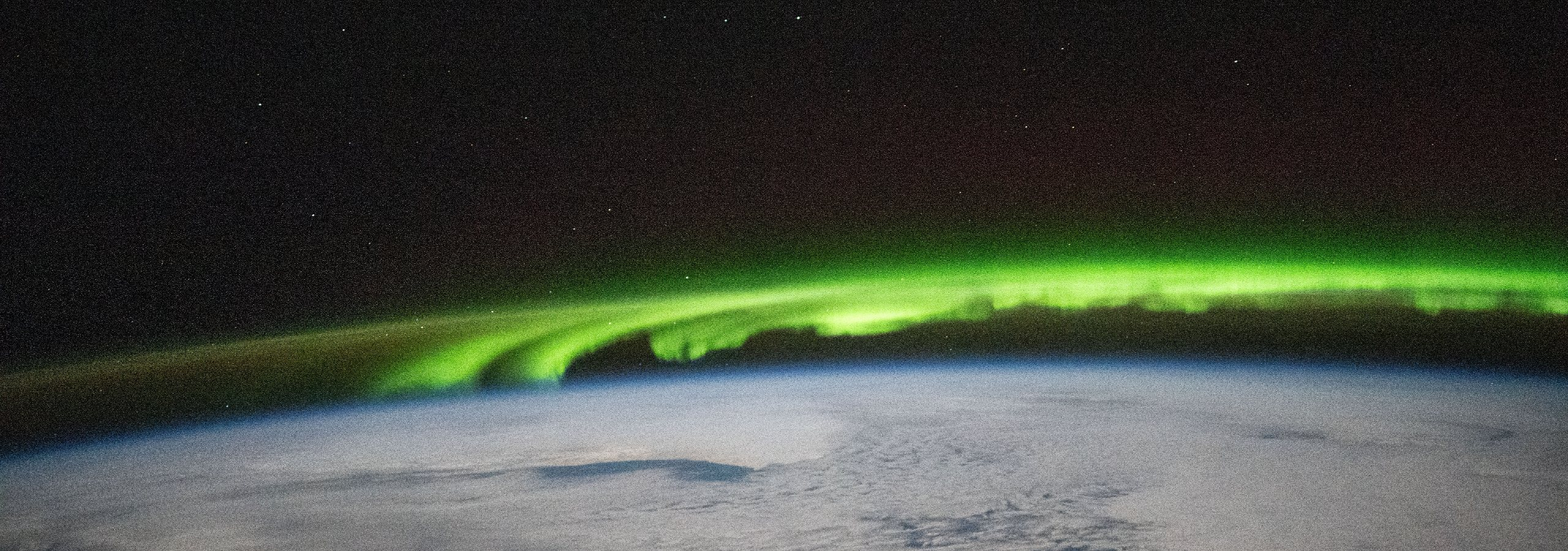
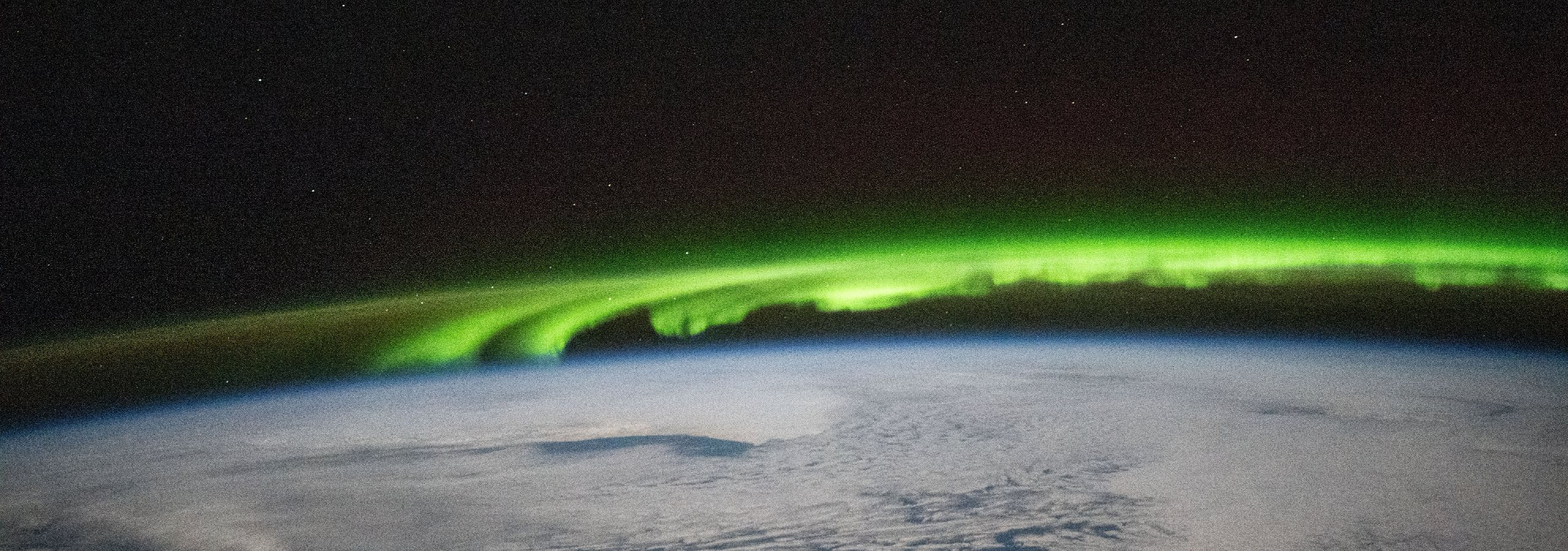
Recadre les aurores sur le rideau lumineux et laisse la photo respirer
Le portail n'a plus de planche au trait par-dessus la photographie ; les
fonds sont recadrés sur la partie lumineuse de l'aurore, et les voiles des
thèmes clair et sombre sont allégés pour que la photo reste visible sans
jamais passer sous un texte.

Claude-Session: https://claude.ai/code/session_01YCkoCtbapSrxguP4RnxtDj

diff --git a/site/eleve.css b/site/eleve.css
@@ -57,12 +57,12 @@ body.corps-eleve {
   /* Une vraie photographie d'aurore boréale (NASA, domaine public) sous un
      voile clair : la couleur affleure, le texte reste sur des cartes opaques. */
   background:
-    linear-gradient(180deg, rgba(246, 250, 251, .62) 0%, rgba(246, 250, 251, .80) 45%, rgba(246, 250, 251, .96) 100%),
+    linear-gradient(180deg, rgba(246, 250, 251, .30) 0%, rgba(246, 250, 251, .62) 45%, rgba(246, 250, 251, .92) 100%),
     url('fond/aurore-jour.jpg') center top / cover no-repeat,
     var(--e-fond);
   background-attachment: fixed;
 }
-@media (max-aspect-ratio: 3/4) { body.corps-eleve { background-image: linear-gradient(180deg, rgba(246, 250, 251, .62) 0%, rgba(246, 250, 251, .80) 45%, rgba(246, 250, 251, .96) 100%), url('fond/aurore-mobile.jpg'); background-size: auto, cover; } }
+@media (max-aspect-ratio: 3/4) { body.corps-eleve { background-image: linear-gradient(180deg, rgba(246, 250, 251, .30) 0%, rgba(246, 250, 251, .62) 45%, rgba(246, 250, 251, .92) 100%), url('fond/aurore-mobile.jpg'); background-size: auto, cover; } }
 
 [data-theme="dark"] body.corps-eleve {
   --e-encre: #F1ECF5;
@@ -75,11 +75,11 @@ body.corps-eleve {
   --e-ombre: 0 1px 2px rgba(0,0,0,.4), 0 10px 30px rgba(0,0,0,.35);
   --e-ombre-forte: 0 2px 8px rgba(0,0,0,.5), 0 22px 50px rgba(0,0,0,.5);
   background:
-    linear-gradient(180deg, rgba(11, 16, 32, .28) 0%, rgba(11, 16, 32, .74) 55%, rgba(11, 16, 32, .9) 100%),
+    linear-gradient(180deg, rgba(11, 16, 32, .10) 0%, rgba(11, 16, 32, .48) 55%, rgba(11, 16, 32, .84) 100%),
     url('fond/aurore-nuit.jpg') center top / cover no-repeat fixed,
     var(--e-fond);
 }
-@media (max-aspect-ratio: 3/4) { [data-theme="dark"] body.corps-eleve { background-image: linear-gradient(180deg, rgba(11, 16, 32, .28) 0%, rgba(11, 16, 32, .74) 55%, rgba(11, 16, 32, .9) 100%), url('fond/aurore-mobile.jpg'); } }
+@media (max-aspect-ratio: 3/4) { [data-theme="dark"] body.corps-eleve { background-image: linear-gradient(180deg, rgba(11, 16, 32, .10) 0%, rgba(11, 16, 32, .48) 55%, rgba(11, 16, 32, .84) 100%), url('fond/aurore-mobile.jpg'); } }
 
 .eleve { display: flex; flex-direction: column; min-height: 100vh; }
 .eleve h1, .eleve h2, .eleve h3 {

diff --git a/site/portail.css b/site/portail.css
@@ -25,6 +25,7 @@ body.corps-portail { background: #0b1a3a; overflow: hidden; }
   height: 100%;
   color: #ffffff;
   opacity: 0.07;
+  display: none; /* la photographie d'aurore tient seule le second plan */
   pointer-events: none;
 }
 /* Les bords de case sont à l'encre pleine, le dessin au trait fin. */
